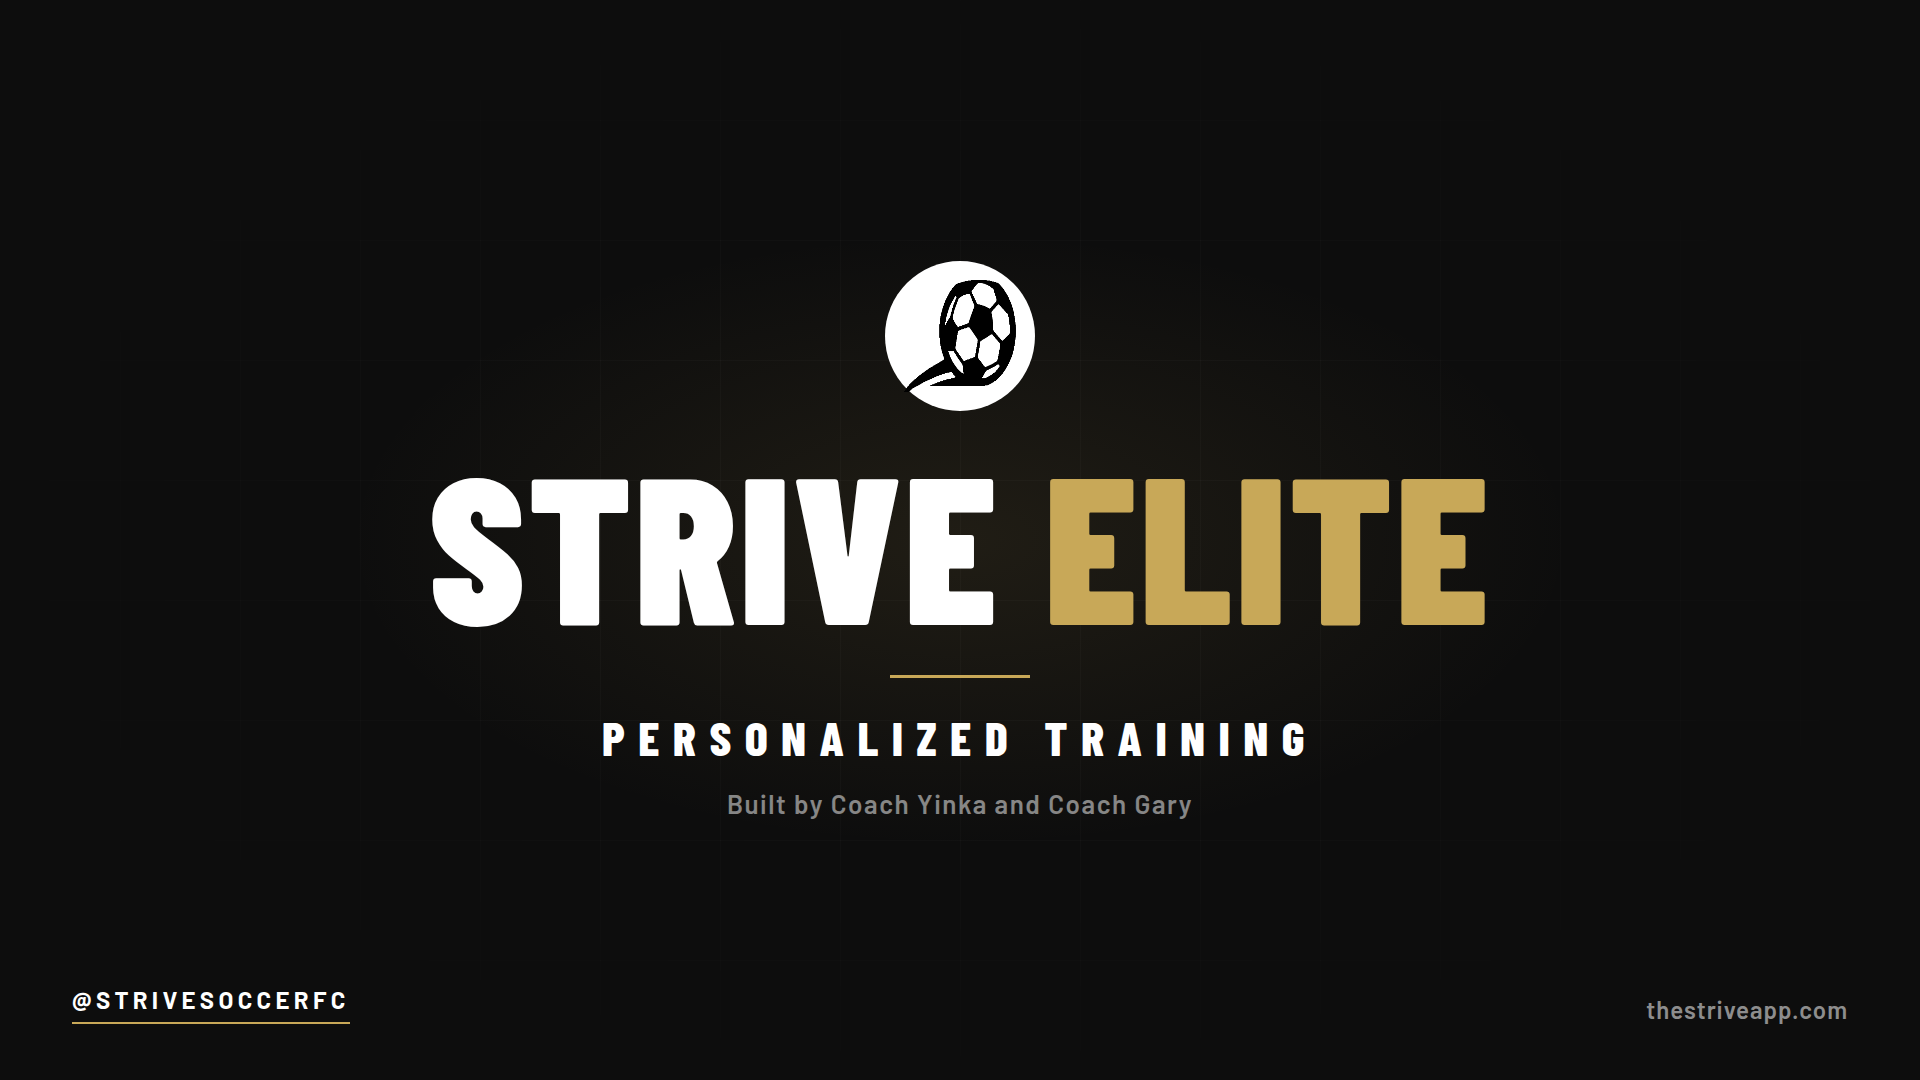
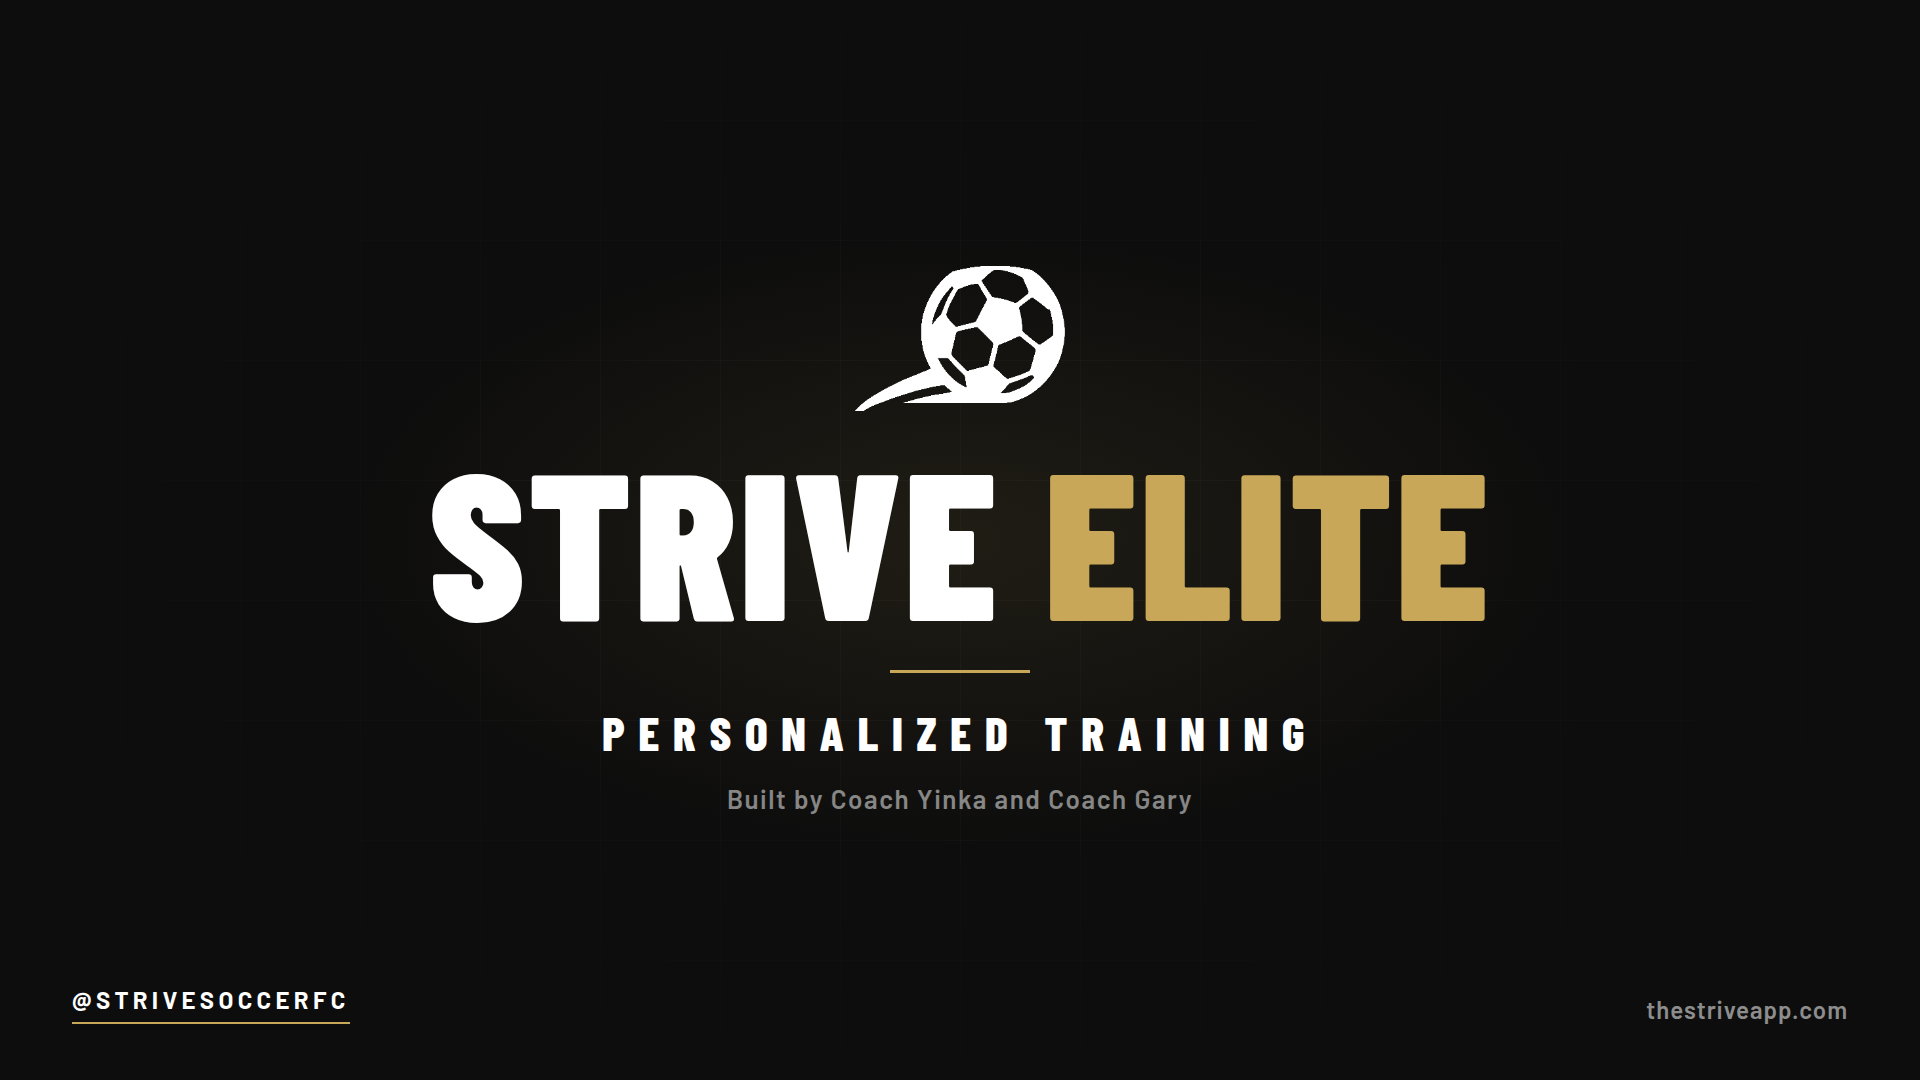
Covers: plain white mark replaces the coin on the Strive Elite cover
Claude-Session: https://claude.ai/code/session_011JsCTTjCbUkHbTuWTKQSXJ

diff --git a/marketing/covers/strive-elite-meeting/cover.html b/marketing/covers/strive-elite-meeting/cover.html
@@ -9,8 +9,8 @@ body{font-family:'Barlow',sans-serif;color:#fff;position:relative}
   linear-gradient(rgba(255,255,255,.025) 1px,transparent 1px) 0 0/120px 120px;
   mask-image:radial-gradient(ellipse at center,#000 30%,transparent 80%);-webkit-mask-image:radial-gradient(ellipse at center,#000 30%,transparent 80%)}
 .wrap{position:absolute;inset:0;display:flex;flex-direction:column;align-items:center;justify-content:center;gap:0}
-.mark{width:150px;height:150px;border-radius:50%;background:#fff;display:grid;place-items:center;margin-bottom:38px}
-.mark img{width:112px;height:112px;filter:invert(1)}
+.mark{display:grid;place-items:center;margin-bottom:34px}
+.mark img{width:210px;height:auto;display:block}
 .word{font-family:'Barlow Condensed';font-weight:900;font-size:208px;line-height:.9;letter-spacing:.015em;text-transform:uppercase;white-space:nowrap}
 .word b{color:#c8a858;font-weight:900}
 .rule{width:140px;height:3px;background:#c8a858;margin:38px 0 30px}
